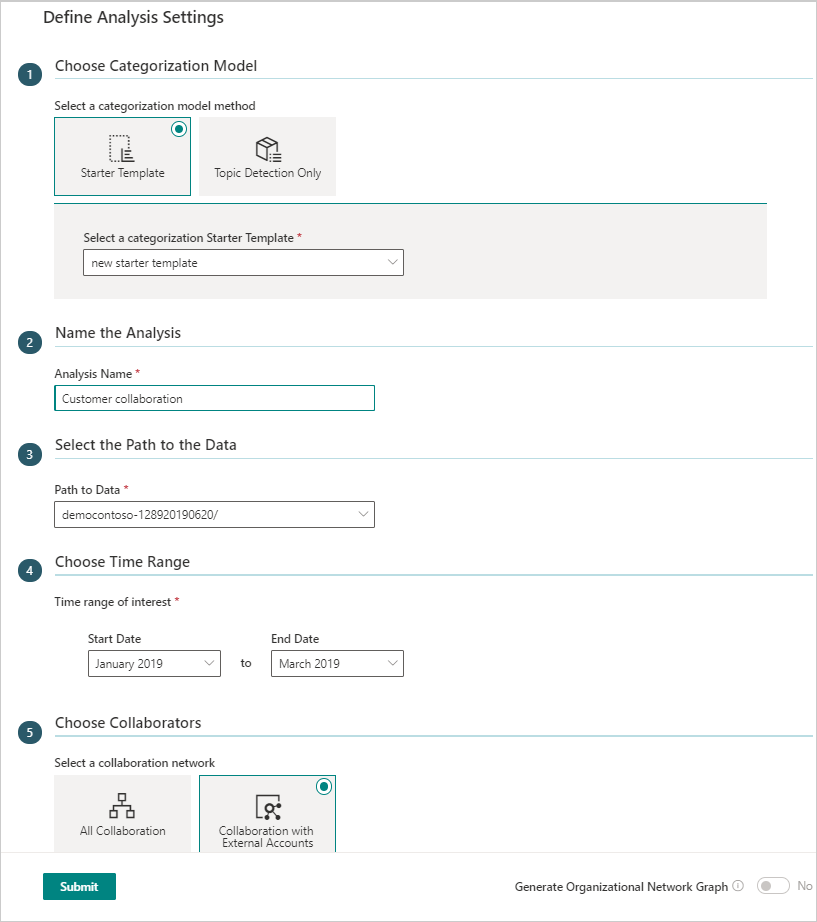
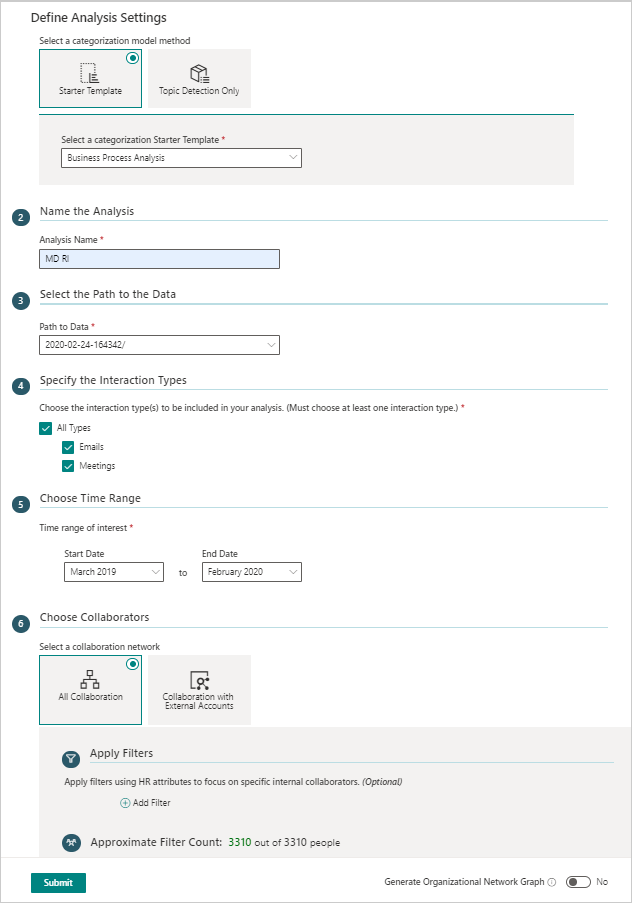
edits

diff --git a/WorkplaceAnalytics/azure-templates/release-notes.md b/WorkplaceAnalytics/azure-templates/release-notes.md
@@ -21,20 +21,58 @@ Azure templates for Workplace Analytics will continue to develop new templates a
 ## April 2021
 
 The following new template features, enhancements, and changes are included this month's release.
-### Organizational Network Analysis Template
+### Organizational Network Analysis
 
-The following enhancements and features are included in the Organizational Network Analysis (ONA) Template.
+**Insights** is a new ONA Template option that uses a simplified set of settings to quickly surface insights about within-group and cross-group collaboration trends for your organization.
 
-### Process Explorer Template
+* **Within-group insights** - Focus on internal group-member to group-member collaboration by highlighting each groups’ behavioral risks for the following important collaboration trends. You can use these to see how group metrics change over time and to better understand their collaboration trends.
 
-A new **Collaboration with External Accounts** option is now available for analyzing how internal groups collaborate with individuals from domains or accounts outside of your company. Because all emails and meetings from a dataset are included when crea
+  * **Silo Risk** shows which groups are disconnected from others or at risk of it.
+  * **Collaboration Balance** shows which groups are balancing their efforts across multiple types of contacts.
+  * **Group Cohesion** shows which groups have the cohesion needed to build trust.
 
-To learn more, see [Process Explorer Azure Template](./process-explorer.md).
+* **Cross-group insights** - focus on how groups collaborate with other groups in their network. The insights highlight which groups are collaborating as expected and less than expected and which groups are not communicating at all. You can also see how these metrics have changed over time, to better understand your groups' collaboration trends.
+* **Downloadable metrics** - Same as for Analysis in ONA, you can also download the collaboration metrics and interaction matrix for any Insights that you create in ONA.
+* **Filter group count** - When creating new analysis or applying settings or filters in ONA, you can now see the approximate count of people included in the analysis as compared to the total population that's included in the dataset. This makes it easier for you to adhere to the minimum group size and threshold settings for the dataset during the analysis creation step. As compared to learning after the analysis is processed and either fails or doesn't show any data because it failed to meet the dataset threshold settings.
 
-### Relationship Intelligence Template and Power BI report
+To learn more, see [Insights](./ona-insights.md) and [Analysis](./ona-analysis.md), which are now available as part of the Organizational Network Analysis Template.
 
-* **Improved Settings** - A new **Settings** page makes it easier to scope your analysis by selecting the date range, accounts of interest by various data attributes, their grouping attributes, and the interactions that involve specific internal groups.
-* **Internal collaborators** - New level of analysis focused on internal collaborators, their connectivity score, and influencer rank.
+### Process Explorer
+
+* **Interaction Type selection** - You can now select the type of interaction that you want to analyze with the Process Explorer template. By default, both emails and meetings are included for process analysis. However, you can now select to only analyze emails or only meetings. **Note**: When only analyzing meetings, Email Thread Analysis will be unavailable.
+* **Filter group count** - When creating new analysis or applying settings or filters, you'll now see the approximate count of people included in the analysis as compared to the total population included in the dataset. This makes it easier for your analysis to adhere to the dataset's minimum-group size and threshold settings during the analysis creation step. As compared to waiting for the analysis to process and either fail or not show any data because it doesn't meet the dataset threshold settings.
+
+To learn more, see [Process Explorer](./process-explorer.md).
+
+### Relationship Intelligence
+
+* **Enhanced filter functionality and metrics** - In **Relationship Overview**, you'll see new metrics with more filter options that help focus analysis into specific accounts. These new metrics and filters are available as you drill into individual accounts.
+* **Account sizes** - You can now filter by estimated account size, which is determined by the number of people in your organization that interact with the specified account. The sizes are divided into the following values that you can filter for any combination of them.
+
+  * XS: 1 to 2 contacts
+  * X: 3 to 9 contacts
+  * M: 10 to 49 contacts
+  * L: 50 to 99 contacts
+  * XL: 100 to 499 contacts
+  * XXL: 500 or more contacts
+
+* **Connectivity scores** - Indicate how close of a relationship your organization has with each account. The scores are divided into the following values that you can filter into any combination of them.
+
+  * Low: 1 to 29
+  * Medium: 30 to 79
+  * High: 80 to 100
+
+* **Connectivity tiers** - Categorize each account into one of the following percentiles, out of all of the accounts a user engages with, and the user can filter down to any combination of them.
+
+  * Bottom 5 percent
+  * Bottom 25 percent
+  * Bottom 50 percent
+  * Top 50 percent
+  * Top 25 percent
+  * Top 10 percent
+  * Top 5 percent
+
+* **Connectivity rank by account size** - This new metric ranks each account by comparing its connectivity score with all the other accounts of a comparable size that your organization interacts with. Note that it is possible for there to be ties, as multiple accounts can have the same connectivity score and have the same size designation. Users can sort by this column on the Relationship Overview page.
 
 To learn more, see [Relationship Intelligence](./relation-intel.md).
 

diff --git a/WorkplaceAnalytics/azure-templates/process-explorer.md b/WorkplaceAnalytics/azure-templates/process-explorer.md
@@ -50,7 +50,7 @@ If you want to use an [Account mapping](deploy-configure.md#account-mapping) fil
 3. In **Define Analysis Settings**, select one of the following:
 
    * **Starter Template** - Choose and then select a predefined factory or a user-defined starter template in **Select a categorization Starter template**.
-   * **Topic Detection only** - This option auto-detects topics in the selected dataset and then shows you the top results on the **Detected Topics** page. After the analysis is created With this option, you can export any relevant topics to a new starter template and customize the categories and key phrases by selecting **Create Starter Template**. With this option, all emails and meetings remain uncategorized on the Categorization Analysis, Email Thread Analysis, and Communication Flow by Category pages.
+   * **Topic Detection only** - This option auto-detects topics in the selected dataset and then shows you the top results on the **Detected Topics** page. After the analysis is created With this option, you can export any relevant topics to a new starter template and customize the categories and key phrases by selecting **Create Starter Template**. With this option, all emails and meetings that are not categorized in the Categorization Analysis, Email Thread Analysis, and Communication Flow by Category pages can then be categorized.
 
     ![Process Explorer starter templates](./images/pexp-new-analysis.png)
 
@@ -93,7 +93,9 @@ If you want to use an [Account mapping](deploy-configure.md#account-mapping) fil
 
 ## Categorization analysis
 
-You can see how the activity data is distributed into predefined categories, including total number of meetings, meeting hours, email, and email hours by category. You can also select **Download Category Distribution Data** to download a .csv file of this categorized data activity.
+You can analyze both emails and meetings or you can select to analyze only emails or only meetings. You can see how the activity data is distributed into predefined categories, including: total number of meetings, meeting hours, email, and email hours by category. If you select to only analyze meetings, Email Thread Analysis will be unavailable.
+
+You can also select **Download Category Distribution Data** to download a .csv file of this categorized data activity.
 
 ![Categorization analysis](./images/pexp-cat-analysis.png)
 

diff --git a/WorkplaceAnalytics/azure-templates/relation-intel.md b/WorkplaceAnalytics/azure-templates/relation-intel.md
@@ -29,7 +29,7 @@ The Relationship Intelligence report includes the following.
 
 * **Relationship Overview** - Shows information about all accounts, including:
 
-  * The Account table shows an overview of related collaboration activity with accounts, such as email and meeting hours spent with them and the last date the organization engaged with them.
+  * The Account table includes an overview of related collaboration activity with accounts, such as email and meeting hours spent with them and the last date the organization engaged with them.
   * The **Connectivity Score** is based on the amount, frequency, and timeliness of collaboration activity with an account.
   * Page down to see **Relationship Highlights** > **Total Time Spent** chart and a chart with **Distinct contacts** analysis.
   * Use the **Internal Group Settings** on the Settings page to focus the chart analysis (below the filter) to specific internal groups who are collaborating. The **Group Engagement** and **Collaboration Time** charts show more details about overall account collaboration activity.
